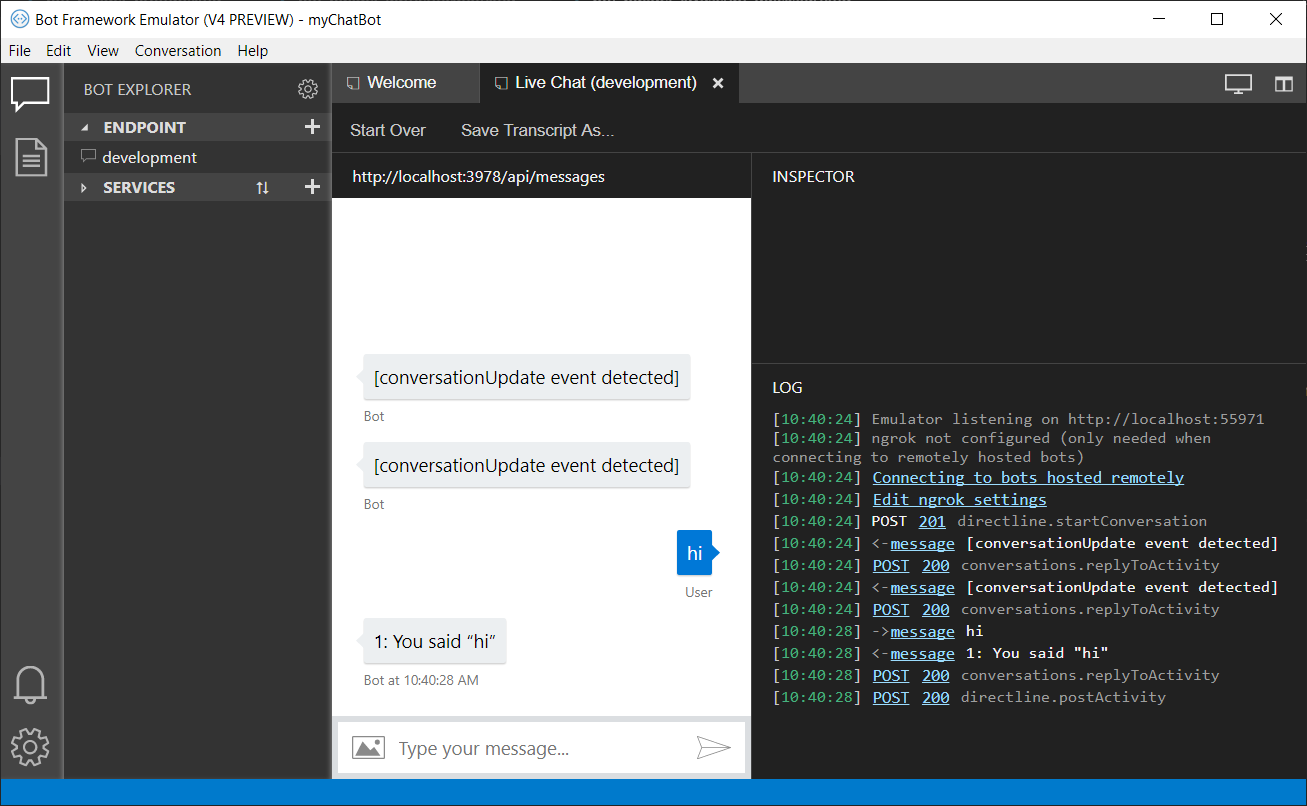
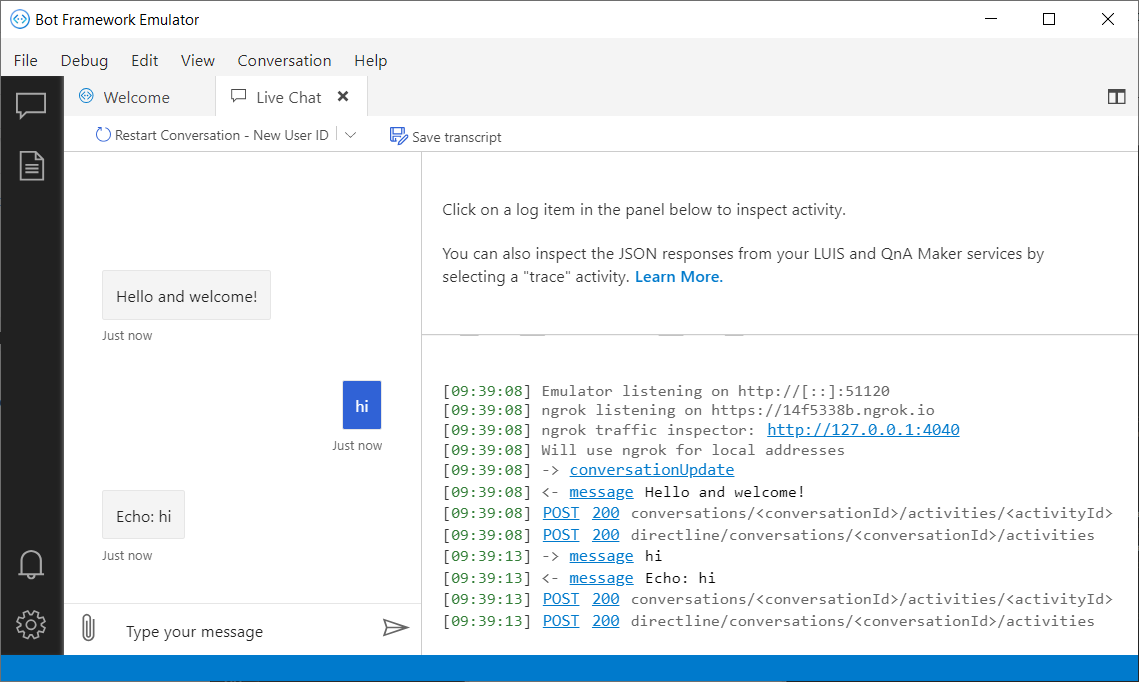
Groom process with respect to the 4.9 SDK release.
- Update Emulator screenshot.

diff --git a/articles/includes/quickstart-javascript.md b/articles/includes/quickstart-javascript.md
@@ -2,7 +2,6 @@
 
 - [Visual Studio Code](https://www.visualstudio.com/downloads)
 - [Node.js](https://nodejs.org/)
-- [Yeoman](http://yeoman.io/), which uses a generator to create a bot for you
 - [git](https://git-scm.com/)
 - [Bot Framework Emulator](https://aka.ms/bot-framework-emulator-readme)
 - Knowledge of [restify](http://restify.com/) and asynchronous programming in JavaScript
@@ -14,7 +13,7 @@
 > This call may also hang without exiting if python is already installed on your system:
 
 > ```bash
-> # only run this command if you are on Windows. Read the above note. 
+> # only run this command if you are on Windows. Read the above note.
 > npm install -g windows-build-tools
 > ```
 
@@ -23,7 +22,8 @@
 To create your bot and initialize its packages
 
 1. Open a terminal or elevated command prompt.
-1. If you don't already have a directory for your JavaScript bots, create one and change directories to it. (We're creating a directory for your JavaScript bots in general, even though we're only creating one bot in this tutorial.)
+
+1. Switch to the directory for your JavaScript bots. Create it first if you don't already have one.
 
    ```bash
    mkdir myJsBots
@@ -36,7 +36,7 @@ To create your bot and initialize its packages
    npm install -g npm
    ```
 
-1. Next, install Yeoman and the generator for JavaScript.
+1. Next, install or update Yeoman and the generator for JavaScript. (Yeoman is a tool for creating applications. For more information, see [yeoman.io](https://yeoman.io).)
 
    ```bash
    npm install -g yo generator-botbuilder
@@ -48,31 +48,38 @@ To create your bot and initialize its packages
    yo botbuilder
    ```
 
-Yeoman prompts you for some information with which to create your bot. For this tutorial, use the default values.
+   Yeoman prompts you for some information with which to create your bot. For this tutorial, use the default values.
 
-```text
-? What's the name of your bot? my-chat-bot
-? What will your bot do? Demonstrate the core capabilities of the Microsoft Bot Framework
-? What programming language do you want to use? JavaScript
-? Which template would you like to start with? Echo Bot - https://aka.ms/bot-template-echo
-? Looking good.  Shall I go ahead and create your new bot? (Y/n)
-```
+   ```text
+   ? What's the name of your bot? my-chat-bot
+   ? What will your bot do? Demonstrate the core capabilities of the Microsoft Bot Framework
+   ? What programming language do you want to use? JavaScript
+   ? Which template would you like to start with? Echo Bot - https://aka.ms/bot-template-echo
+   ? Looking good.  Shall I go ahead and create your new bot? Yes
+   ```
 
-Thanks to the template, your project contains all the code that's necessary to create the bot in this quickstart. You won't actually need to write any additional code.
+Thanks to the template, your project contains all the code that's necessary to create the bot in this quickstart. You don't need any additional code to test your bot.
 
 > [!NOTE]
-> If you choose to create a `Core` bot, you'll need a LUIS language model. You can create one on [luis.ai](https://www.luis.ai). After creating the model, update the configuration file.
+> If you create a `Core` bot, you'll need a LUIS language model. (You can create a language model at [luis.ai](https://www.luis.ai)). After creating the model, update the configuration file.
 
 ## Start your bot
 
-In a terminal or command prompt change directories to the one created for your bot, and start it with `npm start`. At this point, your bot is running locally.
+In a terminal or command prompt change directories to the one created for your bot, and start it with `npm start`.
+
+```bash
+cd my-chat-bot
+npm start
+```
+
+At this point, your bot is running locally on port 3978.
 
 ## Start the Emulator and connect your bot
 
 1. Start the Bot Framework Emulator.
-2. Click the **Create a new bot configuration** link in the emulator "Welcome" tab. 
-3. Fill out the fields for your bot. Use your bot's welcome page address (typically http://localhost:3978) and append routing info '/api/messages' to this address.
-4. Then click **Save and connect**.
+2. Click **Open Bot** on the Emulator's **Welcome** tab.
+3. Enter your bot's URL, which is the URL of the local port, with /api/messages added to the path, typically `http://localhost:3978/api/messages`.
+4. Then click **Connect**.
 
 Send a message to your bot, and the bot will respond back with a message.
 ![Emulator running](../media/emulator-v4/js-quickstart.png)
